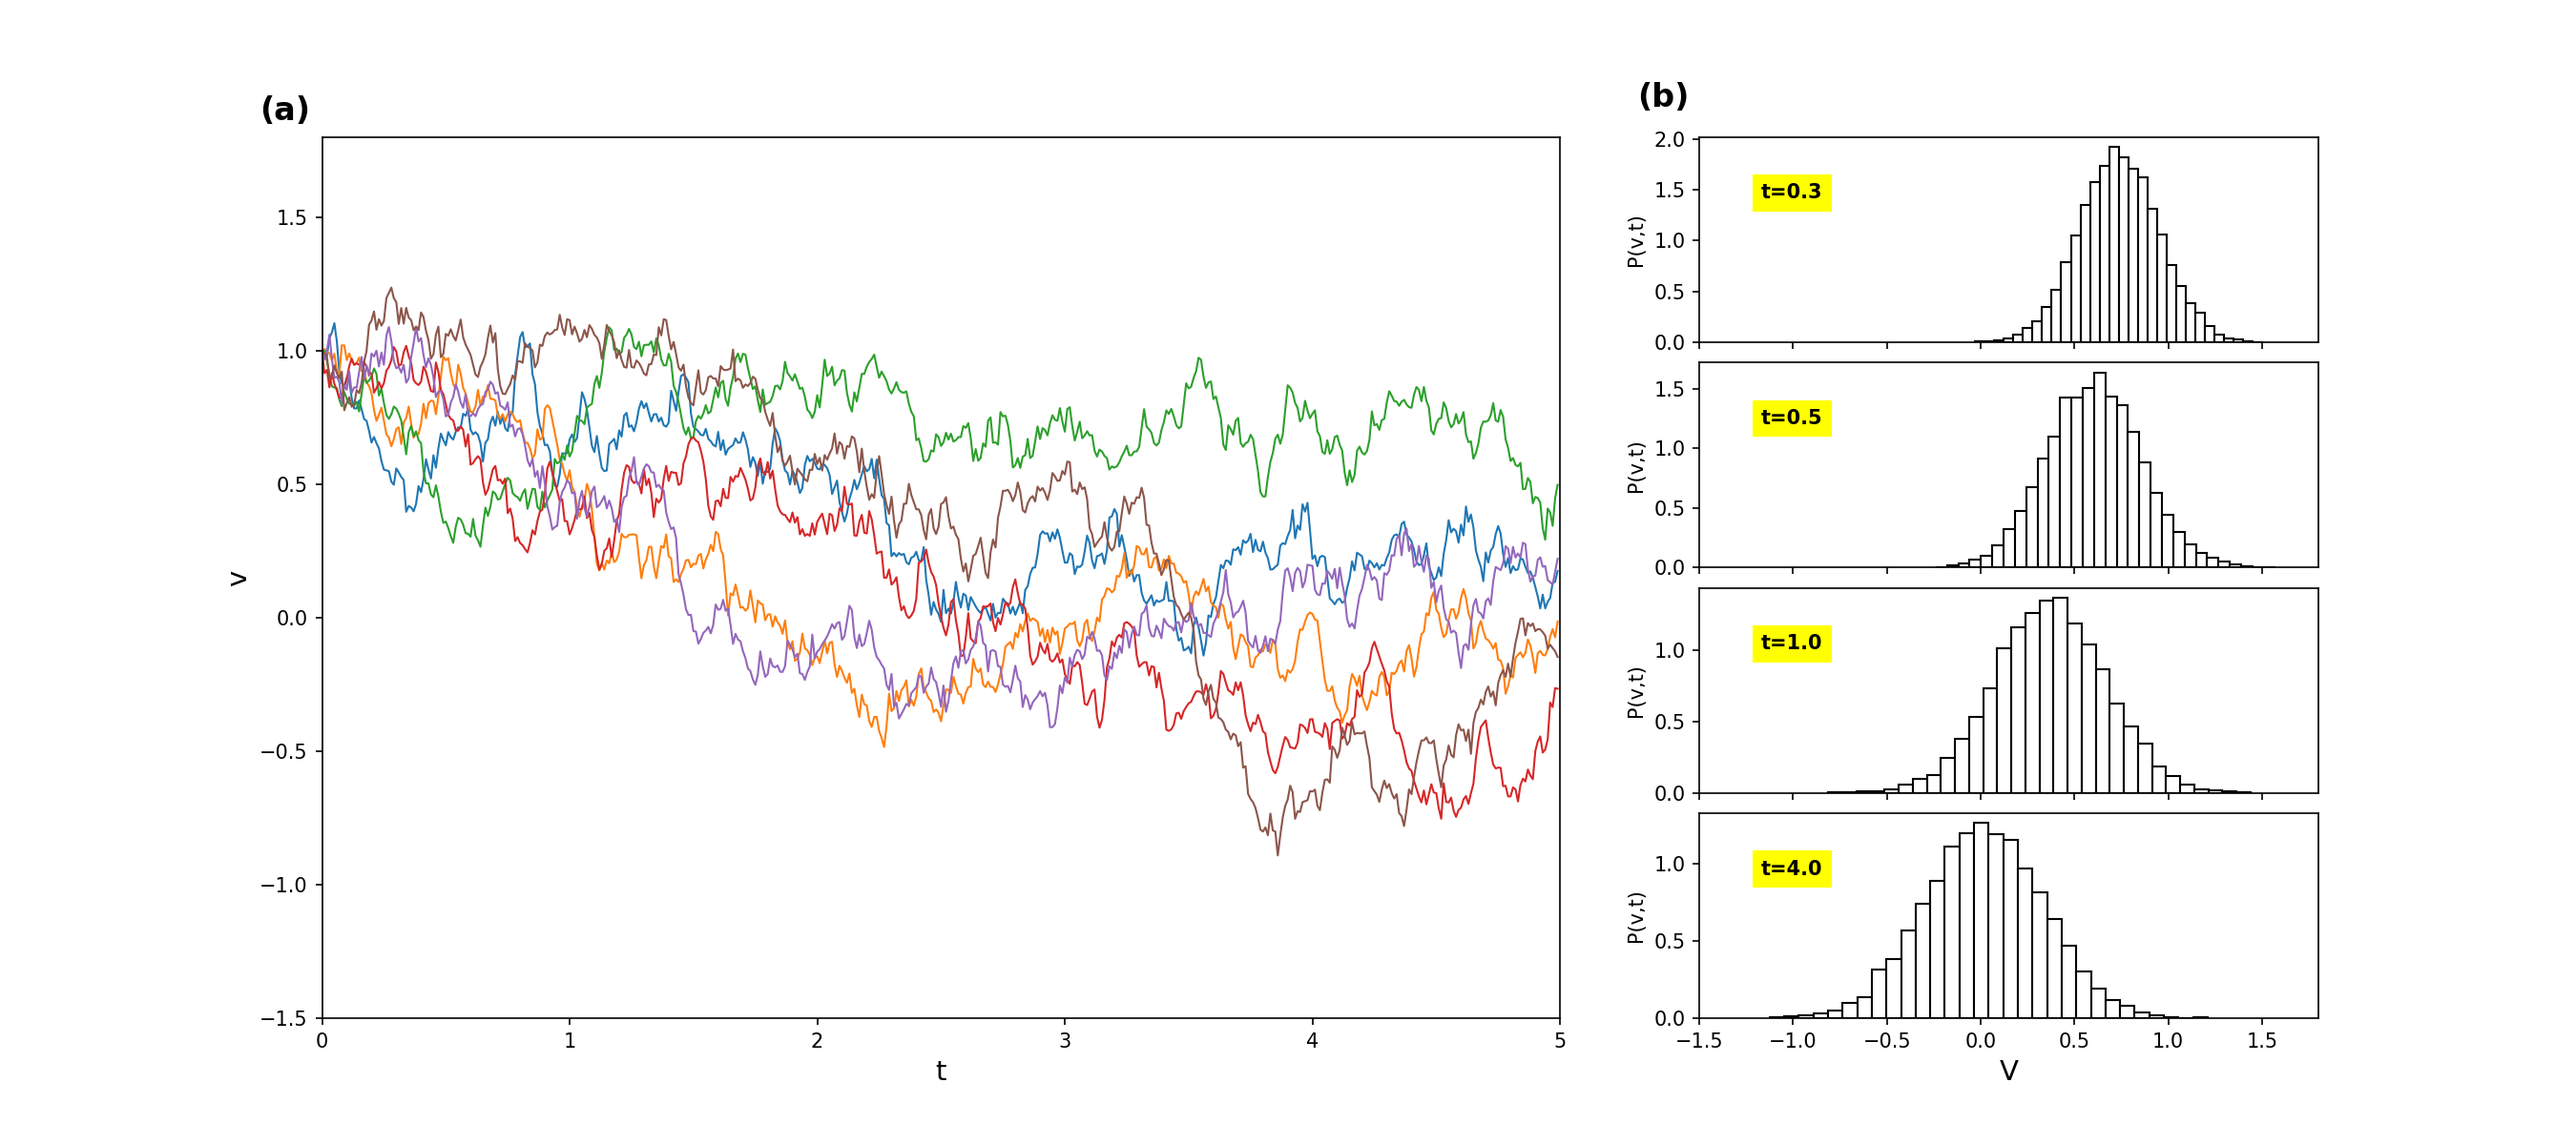
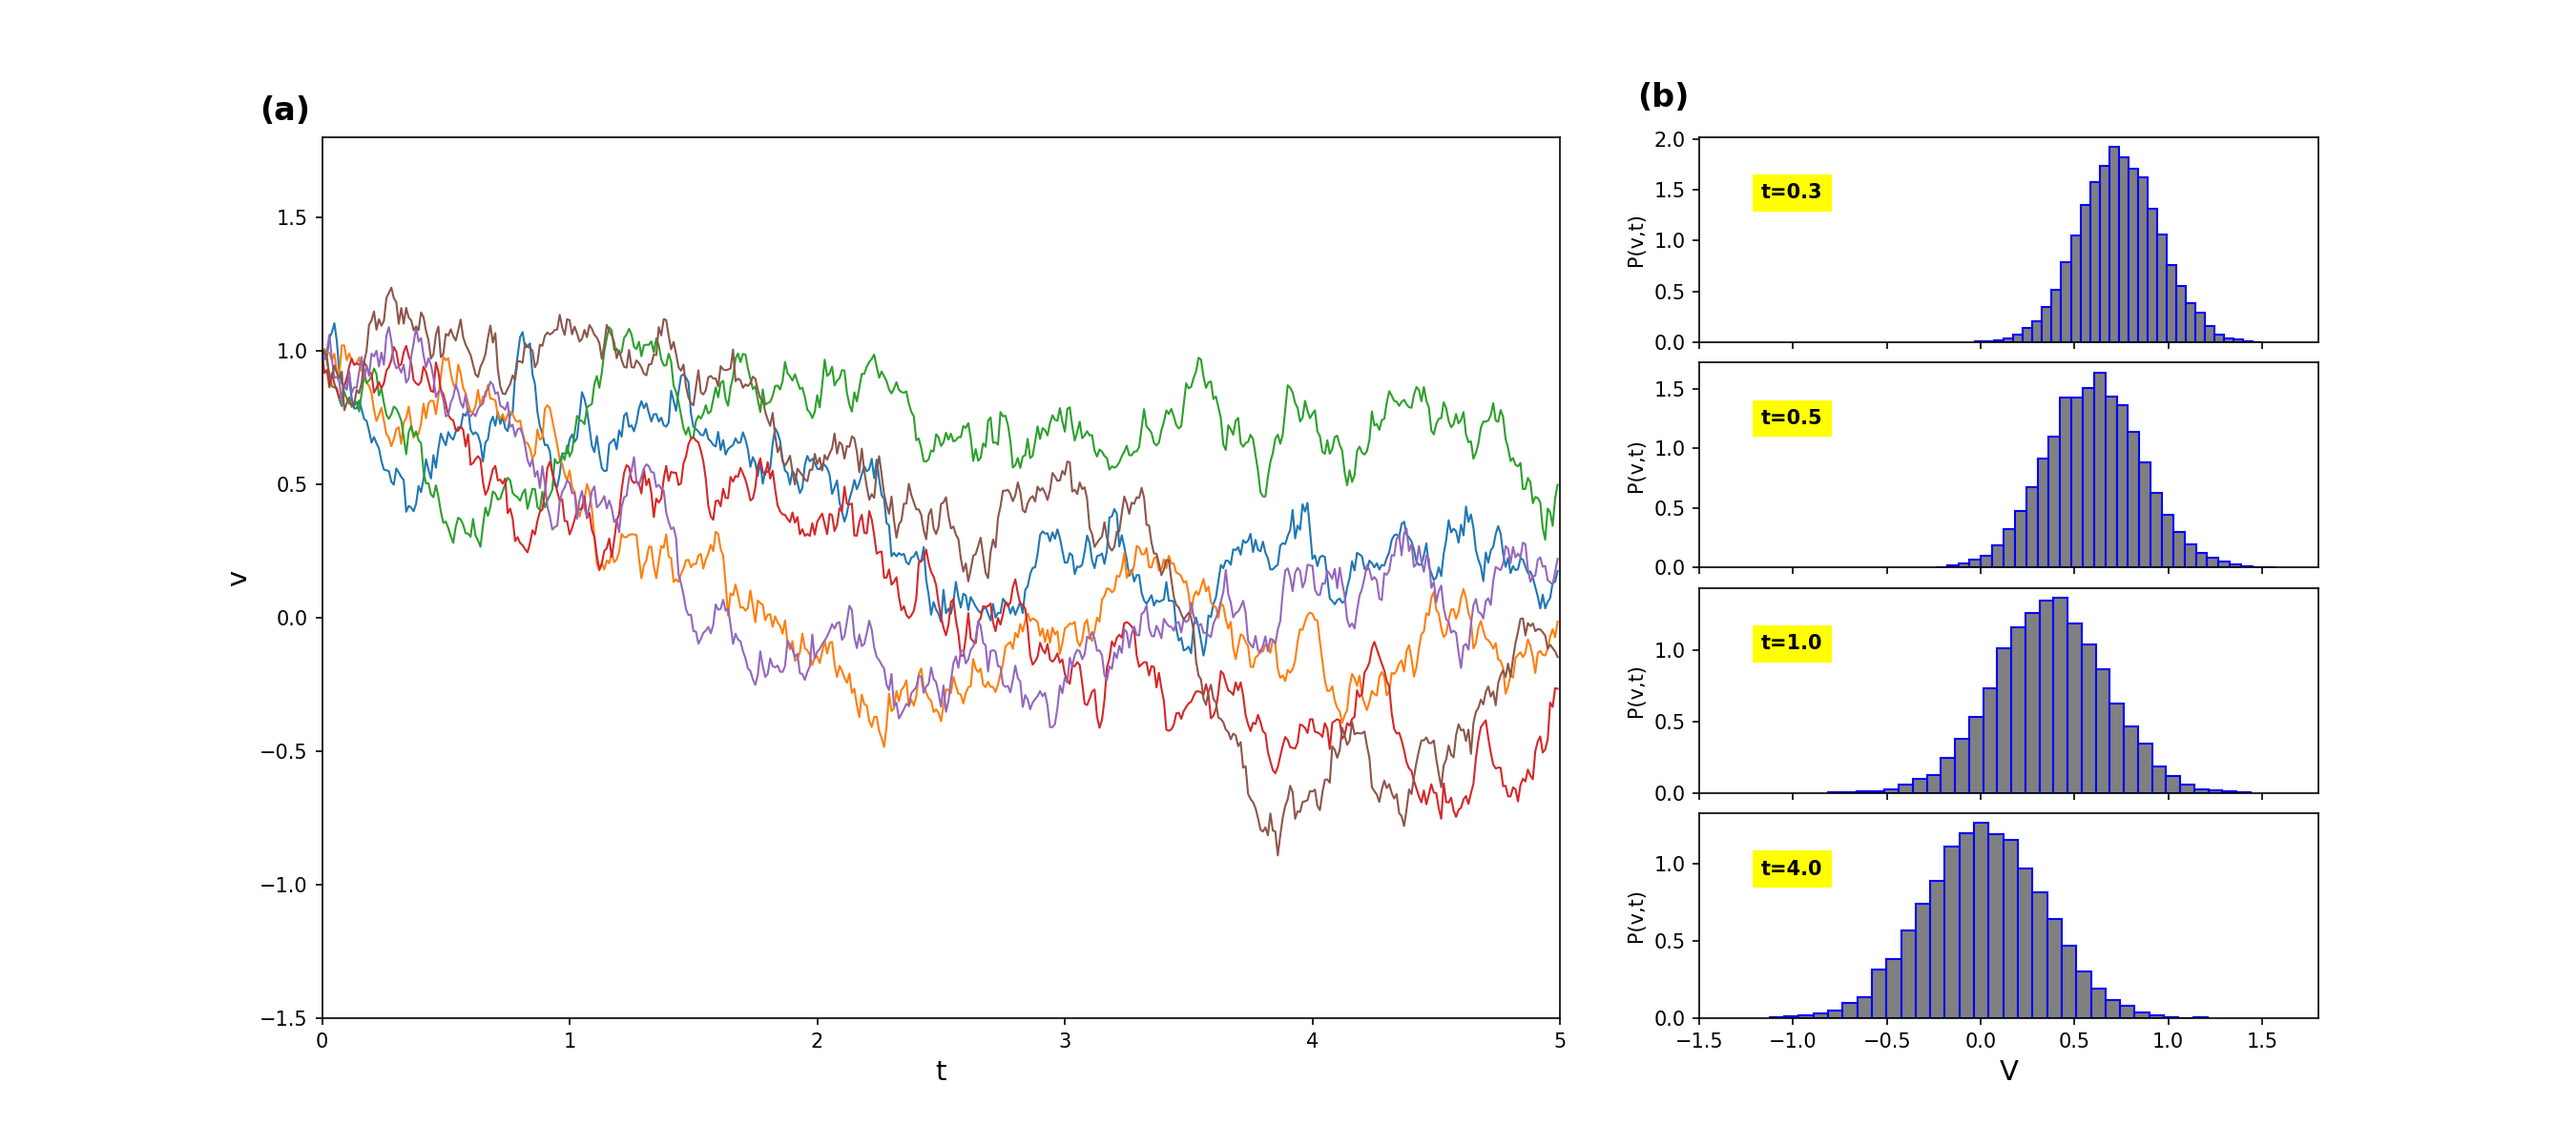
pretty colors

Changed region(s): [[0.6844, 0.5242, 0.8711, 0.8942], [0.7778, 0.1233, 0.8711, 0.3083], [0.7467, 0.3392, 0.8711, 0.4933]]

diff --git a/plots_pretty.py b/plots_pretty.py
@@ -69,7 +69,7 @@ for i, (time_step, label) in enumerate(zip(times, labels)):
     centers = [(bin_bounds[j] + bin_bounds[j+1])/2 for j in range(len(counts))]
 
     # Plot bars
-    ax_hist.bar(centers, density, width=bin_width, edgecolor="black", color="white", linewidth=1)
+    ax_hist.bar(centers, density, width=bin_width, edgecolor="blue", color="grey", linewidth=1)
 
     # Styling
     # Add the yellow label
